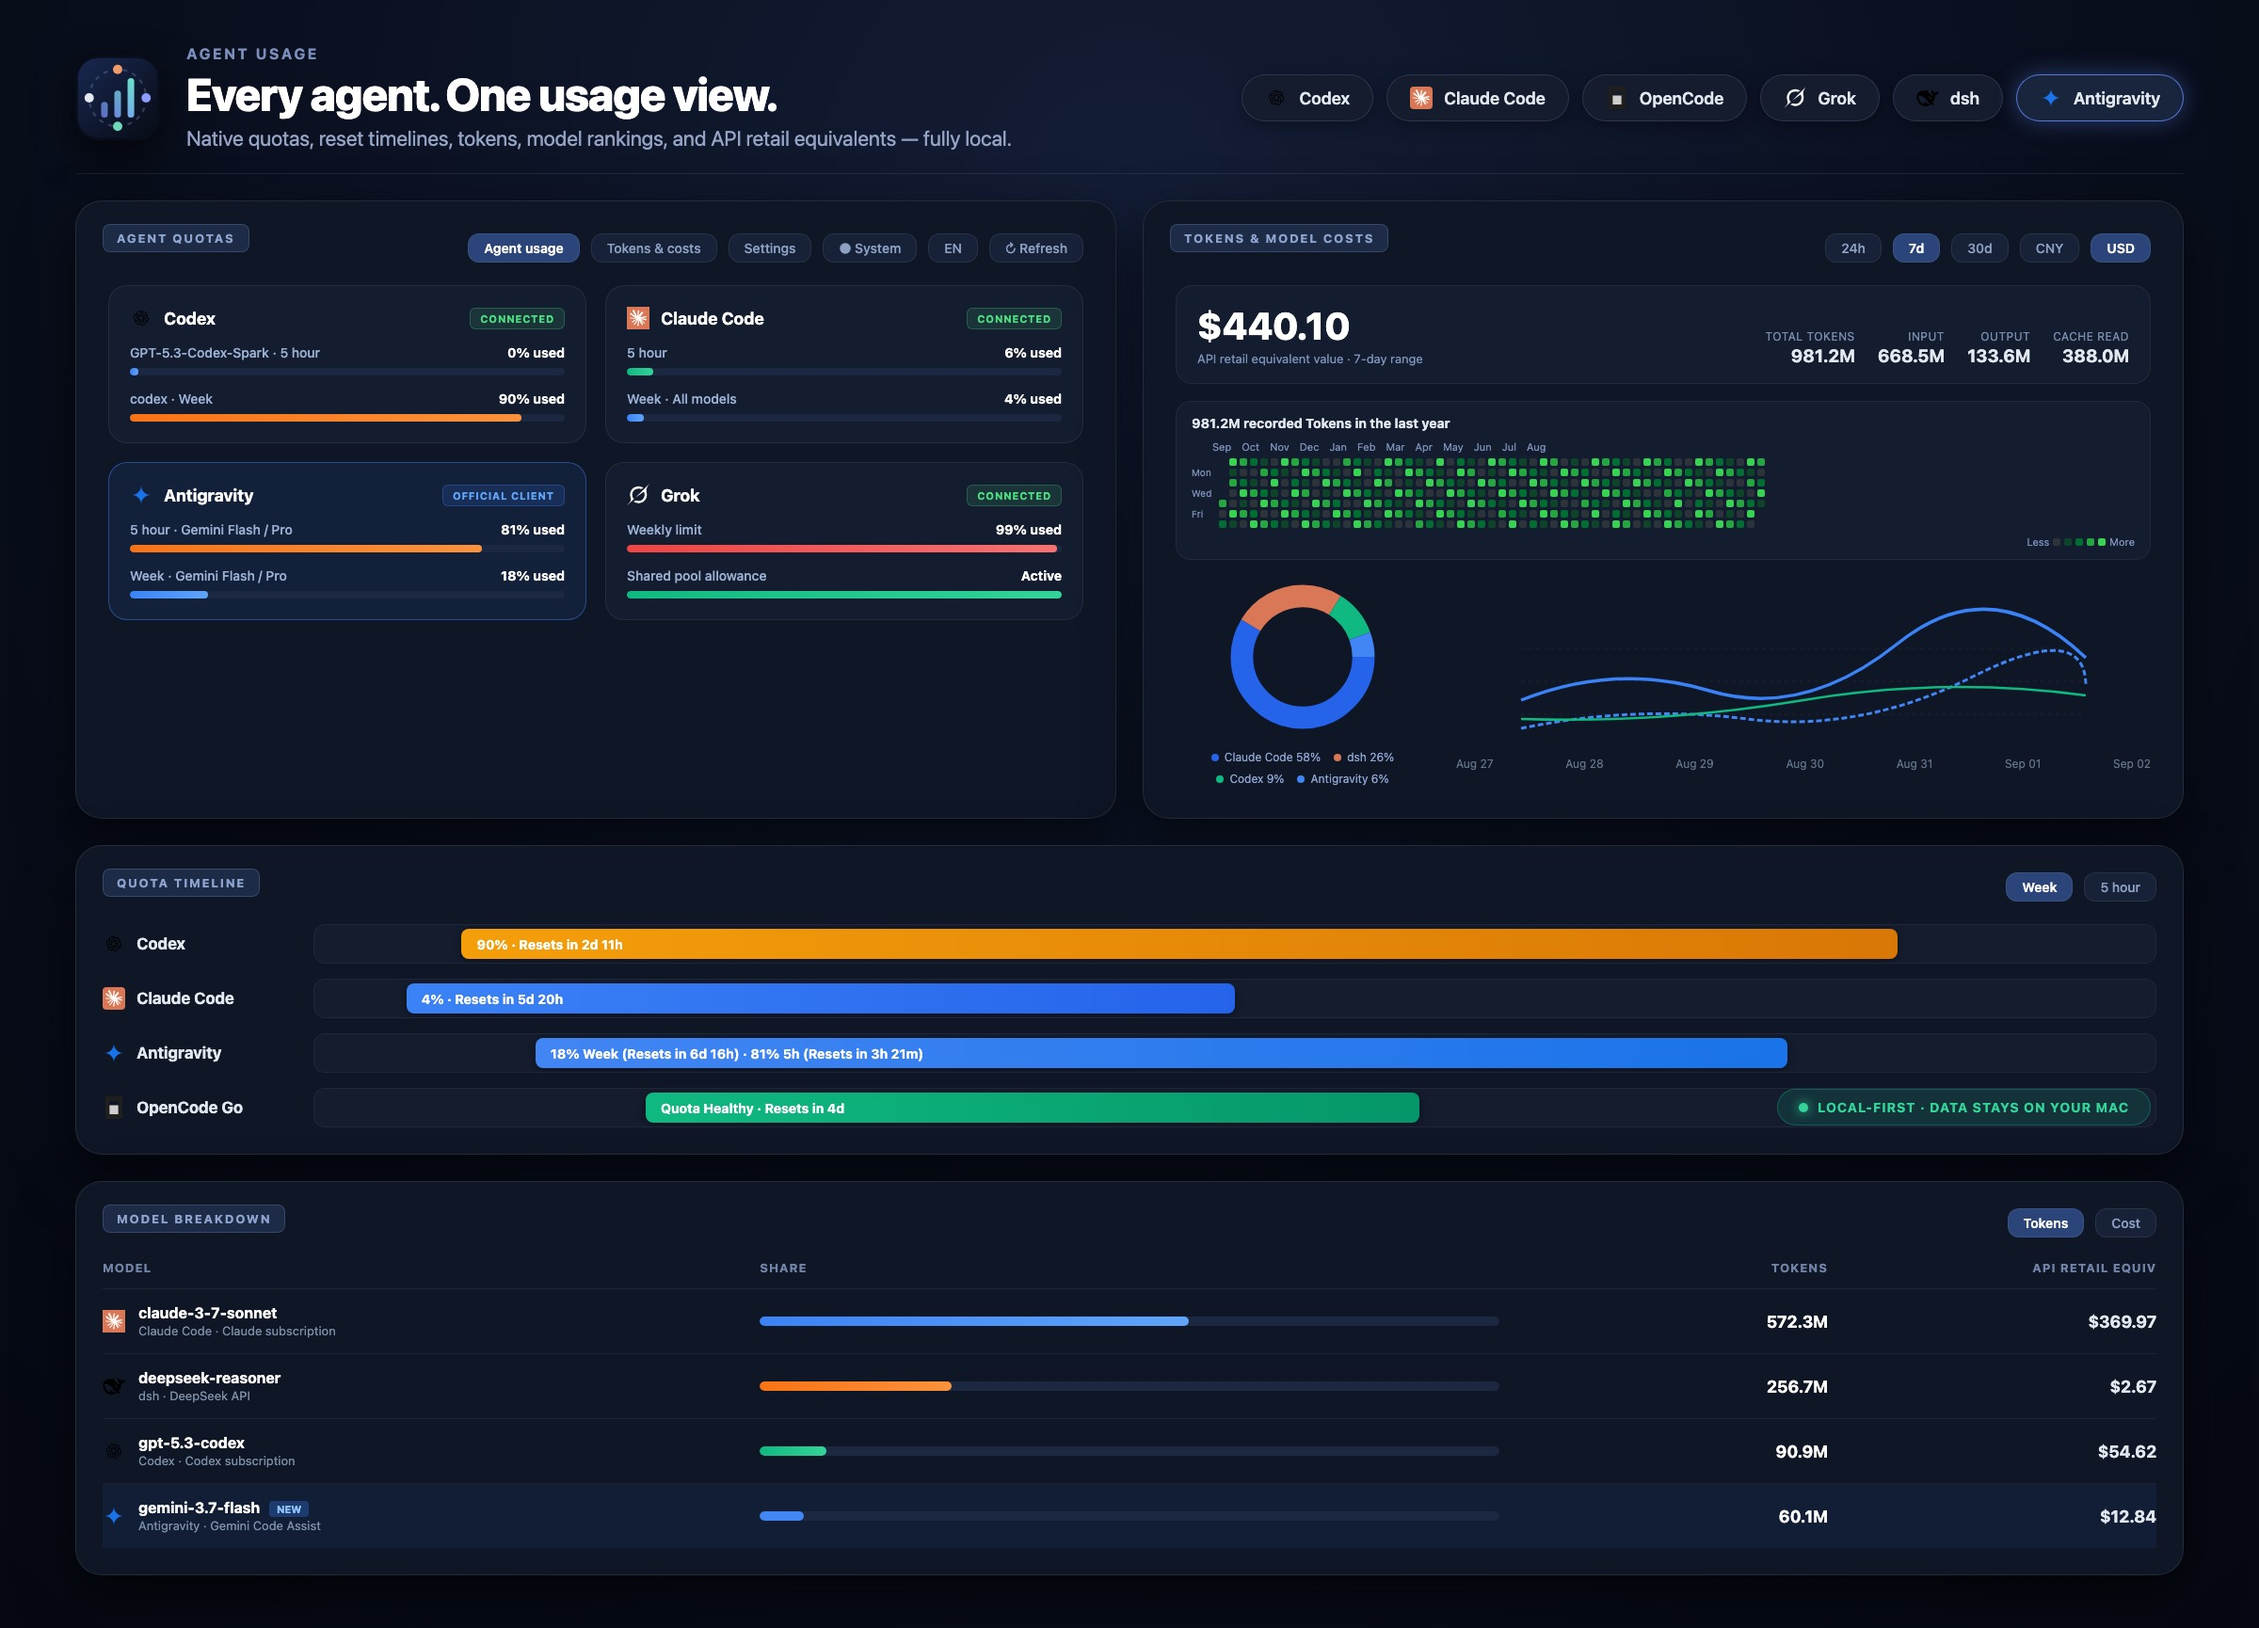
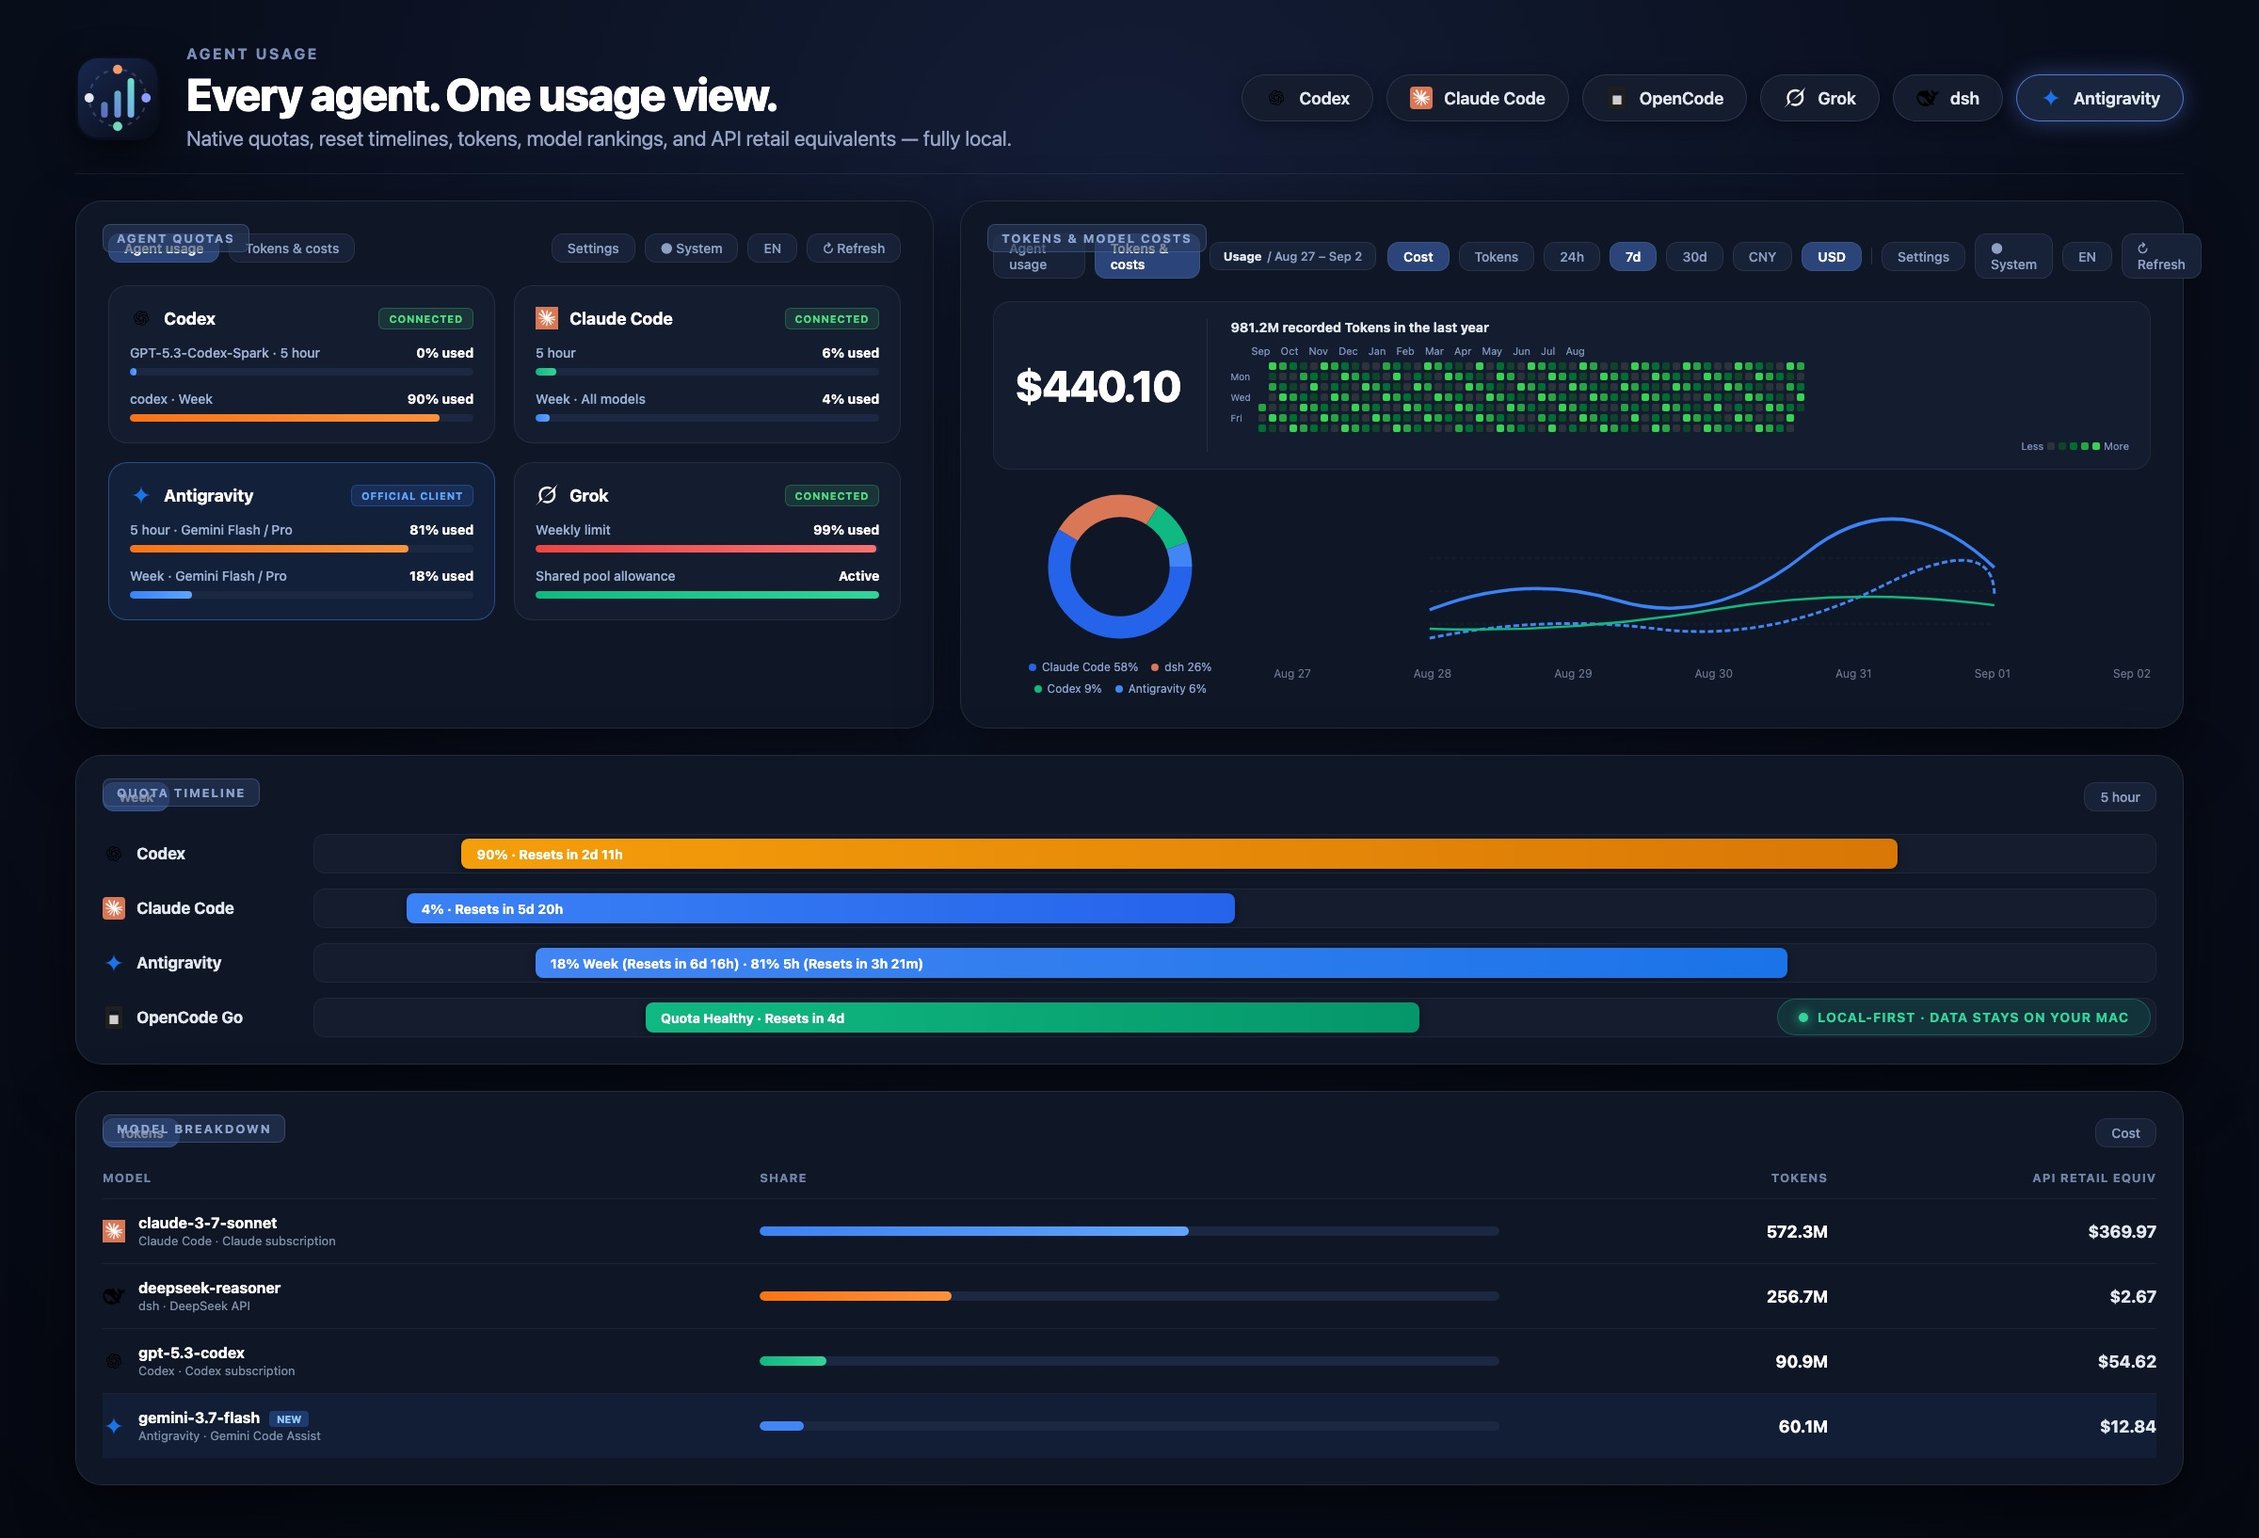
docs: refresh the README showcase for the merged header and usage wall
Update the stitched dashboard banner so Tokens & model costs uses the
sticky header controls and places the last-year usage wall beside the
headline amount.

diff --git a/README.zh-CN.md b/README.zh-CN.md
@@ -17,7 +17,7 @@ API 对等费用、历史与诊断。它只提供建议，不会自动切换 Age
 页面只有两个主要标签页：
 
 - **Agent 用量**：保留各平台原生的 5 小时、周、月、All models 和 Fable only 等额度标签与刷新时间。
-- **Token 与模型费用**：支持 24 小时、7 天和 30 天范围。顶部优先展示汇总信息，接着是过去一年的 GitHub 风格用量墙（只统计计入摘要的已记录 Token），随后用图表展示 Provider 占比和可交互的每日趋势，再以占比条呈现模型排行及符合条件的 Token 按公开 API 价格计算出的对等费用。用量墙与所选的 24 小时 / 7 天 / 30 天窗口相互独立。
+- **Token 与模型费用**：支持 24 小时、7 天和 30 天范围。所选窗口、指标与币种和主标签页共用同一条吸顶导航。汇总卡片左侧是金额或 Token 头条，右侧是过去一年的 GitHub 风格用量墙（只统计计入摘要的已记录 Token），随后用图表展示 Provider 占比和可交互的每日趋势，再以占比条呈现模型排行及符合条件的 Token 按公开 API 价格计算出的对等费用。用量墙与所选的 24 小时 / 7 天 / 30 天窗口相互独立。
 - **设置面板**：采用居中双栏结构，将连接管理、自定义模型费率、运行监控、系统诊断与数据隐私划分为 5 个独立分类，方便高效维护各项配置。
 
 实际账单、平台报告估算、固定订阅费和 API 对等零售价是四类互不混合的证据。

diff --git a/README.md b/README.md
@@ -19,12 +19,14 @@ The dashboard has two primary tabs:
 
 - **Agent usage** preserves each provider's native five-hour, weekly, monthly,
   All models, and Fable-only quota labels and reset times.
-- **Tokens & model costs** supports 24-hour, 7-day, and 30-day ranges. It puts
-  totals first, then a GitHub-style last-year usage wall of headline-included
-  recorded Tokens, charts Provider share and the interactive daily trend, and
-  shows model rankings with visual share bars and the public API retail
-  equivalent of eligible token usage. The year wall is independent of the
-  selected 24-hour, 7-day, or 30-day window.
+- **Tokens & model costs** supports 24-hour, 7-day, and 30-day ranges. The
+  selected window, metric, and currency sit in the same sticky header as the
+  primary tabs. The summary board leads with the headline amount beside a
+  GitHub-style last-year usage wall of headline-included recorded Tokens, then
+  charts Provider share and the interactive daily trend, and shows model
+  rankings with visual share bars and the public API retail equivalent of
+  eligible token usage. The year wall is independent of the selected 24-hour,
+  7-day, or 30-day window.
 - **Settings** provides a centered two-column modal organized into five dedicated
   categories: Connections, Custom model rates, Monitoring, Diagnostics, and
   Data & privacy.

diff --git a/.changeset/refresh-readme-showcase-merged-header.md b/.changeset/refresh-readme-showcase-merged-header.md
@@ -1,0 +1,5 @@
+---
+'agent-usage-all-in-one': patch
+---
+
+Refresh the README dashboard showcase so Tokens & model costs matches the merged header and usage-wall summary board.
